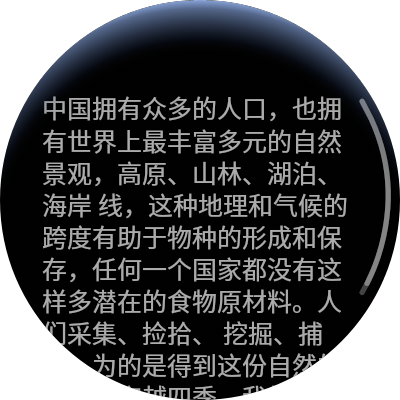
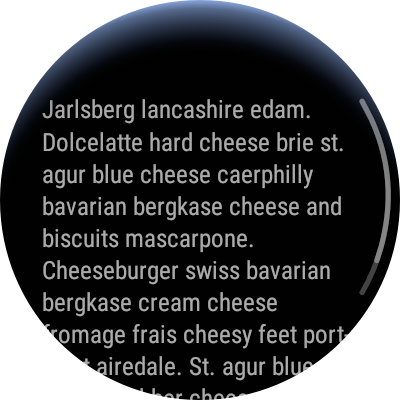
Update en translation. (#5)
1. Change main page trans
2. Update design doc's language.
3. Update dev doc's language & image.

Changed region(s): [[0.09, 0.24, 0.87, 1.0], [0.9, 0.66, 0.96, 0.72]]

diff --git a/_en/index.html b/_en/index.html
@@ -6,8 +6,8 @@ layout: default
   <ul>
     <h3>TicDesign</h3>
         <li>
-          <p>UI library designed for all Ticwear and Android Wear Apps.</p>
-          <p>Provide a set of solution to fit smartwatch’s small screen.</p>
+          <p>An open source UI library for Ticwear and Android wear apps</p>
+          <p>Provide a set of solutions for smartwatch</p>
         </li>
         <li class="github">
           <a class="button" target="_blank" href="{{ site.github.link }}">GitHub</a>
@@ -21,7 +21,7 @@ layout: default
 </div>
 <div class="slide">
   <ul>
-      <h2>An Elegant, Intuitive Display, Making Smartwatch Less Fiddly</h2>
+      <h2>An Elegant. Intuitive Display. Making Smartwatch Less Fiddly</h2>
         <li>Get The Most Important Alert Through One Glance</li>
         <li>
           <a href="{{ site.baseurl }}/en/design/">More Information about Design &gt;</a>
@@ -34,7 +34,7 @@ layout: default
         <div></div>
     </ul>
     <ul>
-      <h2>Similar Codes, Few Modifications</h2>
+      <h2>Similar Codes. Few Modifications</h2>
         <li>The design of TicDesign is based on Android OS.<br>Thus several lines of codes can achieve the exact same UI effect as the original Ticwear 4.0 system.</li>
         <li>
           <a href="{{ site.baseurl }}/en/doc/">More Information about Developing &gt;</a>

diff --git a/_en/design/index.md b/_en/design/index.md
@@ -6,9 +6,9 @@ permalink: /en/design/
 
 This doc applies to the UI design for round-screen smartwatch, a relatively new niche market. Generally speaking, the more subsidized the niche market is, the fewer available files there are for reference. Hence we have decided to make this file open-source, hoping that this friendly gesture helps boost the confidence of our work partners and remove the barriers for those who want to join us in the near future.
 
-Since it is quite demanding to continuously bring innovations to a niche market, we do not want to make this file as a permanent golden “rule” or “guideline” for you to follow. When we share those experiences with you, some design principles for Ticwear system are included ONLY  to ensure design quality. Yet feel free to be creative and not to get yourself restrained by those guidelines.
+Since it is quite demanding to continuously bring innovations to a niche market, we do not want to make this file as a permanent golden “rule” or “guideline” for you to follow. When we share those experiences with you, some design principles for Ticwear system are included only to ensure design quality. Yet feel free to be creative and not to get yourself restrained by those guidelines.
 
->*Over the process of designing Ticwear system interface, we have accumulated some valuable experiences that are carefully organized and compiled in this file. Great thanks to all work partners who have made a contribution to this file.*
+>*Over the process of designing Ticwear system interface, we have accumulated some valuable experiences that are carefully organized and compiled in this file. Great thanks to all who have made a contribution to this file.*
 
 ## Design Concept
 
@@ -16,7 +16,7 @@ Here are the basic concepts we have summed up for smartwatch UI design. While so
 
 #### Know through One Glance
 
-Traditional watch users are used to glancing their wrist to check time every now and then thanks to its extreme convenience. As for smartwatch users, the information they get from a rapid glance goes far beyond time, an user experience that matters the most. Optimizing this experience through design thus directly lies in readable, comprehensive text and simple, direct interface.
+Traditional watch users are used to glancing their wrist to check time every now and then thanks to its extreme convenience. As for smartwatch users, the information they get from a rapid glance goes far beyond time, an user experience that matters the most. Thus optimizing this experience through design directly lies in readable, comprehensive text and simple, direct interface.
 
 <!-- 此处最好有一个用户在合适的时候瞥一眼的动图 -->
 
@@ -28,9 +28,9 @@ Smartwatch usually comes with a delicate tiny screen, making it fiddly for users
 
 <!--用户的视线不应该长期停留在手表上，如果有足够的时间在手表上，应该也有足够的时间去看更大的屏幕。因此手表界面上的文字要尽可能易读、易于理解。不推荐使用大段的文字。-->
 
-#### Be Part of Your Life
+#### Seamlessly Blend Into Your Life
 
-The smartwatch is not supposed to make any noises at quiet places; it shall leave users alone while they exercise; it can be used for some light reading when we sit and drink coffee….When we design apps for smartwatches, we ought to make sure when users need to lift their wrist and whether it is convenient for them to use the other hand.
+The smartwatch is not supposed to make any noises at quiet places; it shall leave users alone while they exercise; it can be used for some light reading when we sit and drink coffee. When we design apps for smartwatches, we ought to make sure when users need to lift their wrist and whether it is convenient for them to use the other hand.
 
 <!-- 此处最好有一个符合以上描述的动图 -->
 
@@ -44,15 +44,15 @@ Smartwatch was born in the “smartphone” era. The earliest generation of smar
 
 Although designing a one-handed operation mode can be fairly challenging and might need more hardware support, insist on doing so. If wearing a watch refrains you from doing other things, why bother wearing it?
 
-#### Smartwatch is Not a Mini Smartphone
+#### A watch. Not a phone.
 
-Both smartwatches and smartphones have touch screen and are designed and developed based on similar operation system. Thus it is easy for us to inadvertently fall into habitual thinking patterns. Yet only one hand has been needed when wearing a watch since the very beginning. And watch itself was invented for the purpose of keeping track of time through a simple lift of wrist. We then firmly believe smartwatch should be like a watch, not the other way around.
+Both smartwatches and smartphones have touch screen and are designed and developed based on similar operation system. Thus it is easy for us to inadvertently fall into habitual thinking patterns. However, the concept of using one hand to check time through a quick lift of wrist has been ingrained into watch user’s mindset since the very beginning. And that is exactly what a traditional watch was invented for. We then firmly believe that smartwatch should be like a watch, not the other way around.
 
-If an app works better and faster on other big screens, we ought to assess whether it is necessary to apply it on smartwatch instead of copying it to the smartwatch without a second thought.
+If an app works better and faster on big screens, we ought to assess whether it is necessary to apply it to smartwatch rather than copying it to the smartwatch without a second thought.
 
 #### Be Stylish
 
-Traditional watches nowadays have gone far beyond its old attribute, and has become a crucial fashion accessory. The same thing applies to smartwatches. Trendy design, exquisite watch faces and elegant software interface are all essential fashion components of smartwatches.
+Timepieces nowadays have transcended their traditional functions, and have become a fashion statement. The same thing applies to smartwatches. Trendy design, exquisite watch faces and elegant software interface are all essential fashion components that matter to smartwatches.
 
 ## Style
 
@@ -62,7 +62,7 @@ Designing interface layout for round screen is quite fun. You just cannot help t
 
 #### Combination of Interface and Shape of Screen
 
-We usually recommend designers to let UI elements align with the screen shape, which helps them make a better use of the tiny screen space and enables a more natural combination of the software interface and hardware appearance. Achieving that could be fairly challenging, while we deem it as the most charming part of the interface design.
+We usually recommend designers to make  UI elements align with the screen shape, which helps them make a better use of the tiny screen space and enables a more natural combination of the software interface and hardware appearance. Achieving that could be fairly challenging, while we deem it as the most charming part of the interface design.
 
 <div class="row">
 <div class="col-third" markdown="1">
@@ -173,11 +173,11 @@ Do not apply colors with similar hue and brightness for the background and conte
 
 ### Typography
 
-Typography is essential to app design. Selecting appropriate font and spacing not only gives readers better reading experiences, but also ensures a nicer visual display of the app. In order to enable “know through one glance”, we have to pick an appropriate font size to bring good reading experience on smartwatch, especially under certain circumstances. Most of the time, we recommend you to follow the text layout guideline for the operation system since its developers are more familiar with the characteristics of the hardware that the system setup on.
+Typography is essential to app design. Selecting appropriate font and spacing not only gives readers greater reading experiences, but also ensures a nicer visual display of the app. In order to enable “know through one glance”, we have to pick an appropriate font size to bring good reading experience on the smartwatch, especially under certain circumstances. Most of the time, we recommend you to follow the text layout guideline for the operation system since its developers are more familiar with the characteristics of the hardware that the system setup on.
 
 #### Font Size
 
-Please try not to display more than two fonts on the same interface and keep the distinction between different fonts obvious. And this rule applies to more than smartphone.
+Please try not to display more than two fonts on the same interface and keep the distinction between different fonts obvious.And this rule applies to more than smartphones.
 
 What listed below is a whole set of font guideline for Ticwear system, which you might find helpful If you are trying to design an interface on a 36mm smartwatch screen. You are also welcome to refer to the [developer doc](../doc/#style-and-theme) for more usage guideline.
 
@@ -195,8 +195,9 @@ What listed below is a whole set of font guideline for Ticwear system, which you
 
 #### Row Spacing
 
-The spacing between rows significantly affects the reading experience.  We use the following reference: row spacing should be 0.4x the font size.  
-This is only a consideration.  In theory, neither too much or too little row spacing can be acceptable.
+The spacing between rows significantly affects the reading experience.  We use the following reference: row spacing should be 0.4x the font size.
+  
+This is only a consideration. Theoretically, a spacing that is neither too much or too little is  acceptable.
 
 <div class="row">
 <div class="col-third" markdown="1">
@@ -213,7 +214,7 @@ This is only a consideration.  In theory, neither too much or too little row spa
 
 #### English Text
 
-When you need English texts for designing an app, you are very likely to encounter the following case: Chinese text message, when translated into English, gets much longer horizontally, therefore disturbing the original balance of layout. This problem could be solved by the following two methods:
+When you need the English version for an app, you are very likely to encounter the following problem: Chinese text message, when translated into English, gets much longer horizontally, therefore disturbing the original balanced layout. This could be solved by the following two solutions:
 
 1. Making English text font at least 2px smaller than Chinese text font.
 2. Use some “condensed” text font: such as Google’s Roboto Condensed
@@ -226,7 +227,7 @@ When you need English texts for designing an app, you are very likely to encount
 
 #### Augment responding area as much as possible
 
-We suggest that you design pleasant visual and responding areas. This is an obvious rule, considering the user scenario and product positioning of smartwatch.
+We suggest you to design a safe and pleasant visual and responsive area for UI elements, an apparent rule to follow given the smartwatch's usage scenarios and product positioning.
 
 <div class="row">
 <div class="col-half" markdown="1">
@@ -239,7 +240,7 @@ We suggest that you design pleasant visual and responding areas. This is an obvi
 
 #### Ensure Enough Spacing
 
-In order to reduce the possibility of unwanted triggering, we suggest that you ensure enough spacing between any two UI elements for touch.
+In order to reduce the possibility of false triggering to the greatest extent, we suggest leaving enough and appropriate spacing between any two clickable UI elements. 
 
 <div class="row">
 <div class="col-half" markdown="1">
@@ -255,23 +256,24 @@ In order to reduce the possibility of unwanted triggering, we suggest that you e
 
 #### Natural Response
 
-The response to touch should be obvious and natural, in harmony with human gesture and motion directions. For example, when the users press downward, the button should respond with changes in the vertical direction; When the users drag the objects, the motion of the object should agree with the laws of motion.
+The response to touch should be obvious and natural that corresponds with human gesture and motion direction. For example, when pressing down, the button should respond with vertical changes; when dragging, the motion of the object should follow  the laws of mechanics.
+
 
 <!--需要一个例子 -->
 
 #### Use Toast As Less As Possible
 
-Use graphs to give response. Keep it short and simple if a toast is really necessary.
+Use graphs to give response. Keep the description  short and simple only if needed. 
 
 <!--需要一个例子 -->
 
 ## Animations
 
-Since smartwatch has a tiny screen, we recommend that developers design some transition animations when new elements appear or the page jumps, in order to better help users understand the level of pages and the state of the watch. Animation should be as natural and consistent with UI elements as possible.
+Since the smartwatch has a tiny screen, we recommend developers to provide some transitional animations over the process when there are appearance of new elements, redirection of the page, and behavior state in order to help users better understand the page level and the state of the watch. Animation should be as natural as possible to align with all sorts of UI elements.
 
 <!--需要：开关动效；神奇移动是啥不知道；表盘的动效也行；listview的挠挠动效也行； 至少3个-->
 
-In regards to animations, we don’t know how to introduce it in an appropriate way. On a smartwatch, there are few elegant animations that can draw people’s attention; at the same time, it is a battery killer to the smartwatch. Please always remember that animations is the upper level architecture in design, but it is the most tender part of the product.
+Regarding animations, we are not very sure how to introduce it in an appropriate way. It is rare to have a noticeable animation with elegant design; meanwhile animation is a battery killer to the smartwatch. Please always keep in mind that animation is the upper level architecture in design, but also the tenderest part of the product.
 
 
 <p class="signature">祝好，愿有温度</p>

diff --git a/_en/doc/index.md b/_en/doc/index.md
@@ -317,7 +317,7 @@ You have to inherit `Preference.VewHolder` when you need to achieve the customiz
 <div class="row">
 <div class="col s12 m7" markdown="1">
 
-Being fully aware of the convenience of Dialog, we make a few modifications to use on smartwatch. We also extended the push button and list display of dialog ,and provide numerical selection dialog. All the changes listed above have helped provide handy user experience while remained the convenience of Android interface.
+Being fully aware of the convenience of Dialog, we make a few modifications to use on smartwatch. We also extended the push button and list display of dialog, and provide numerical selection dialog. All the changes listed above have helped provide handy user experience while remained the convenience of Android interface.
 
 </div>
 <div class="col s12 m4 push-m1 center">
